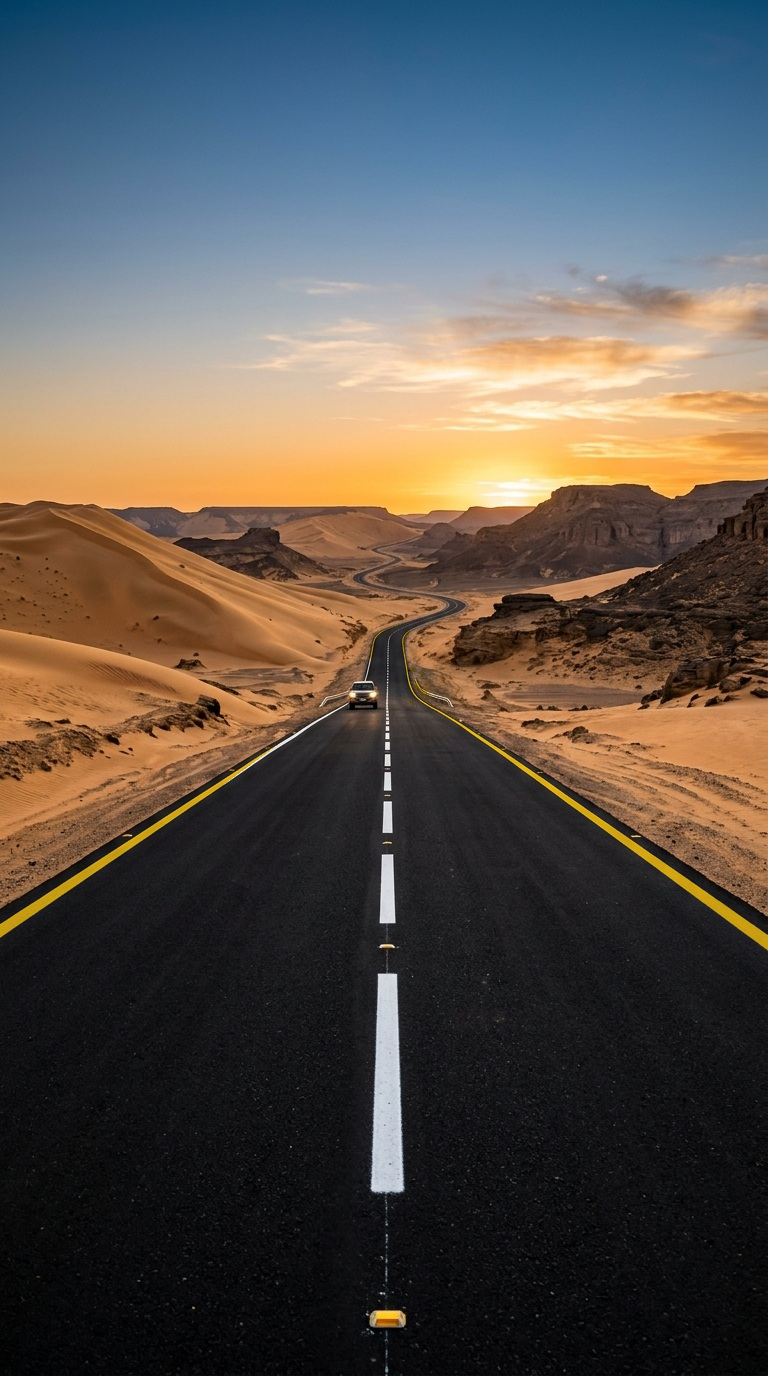
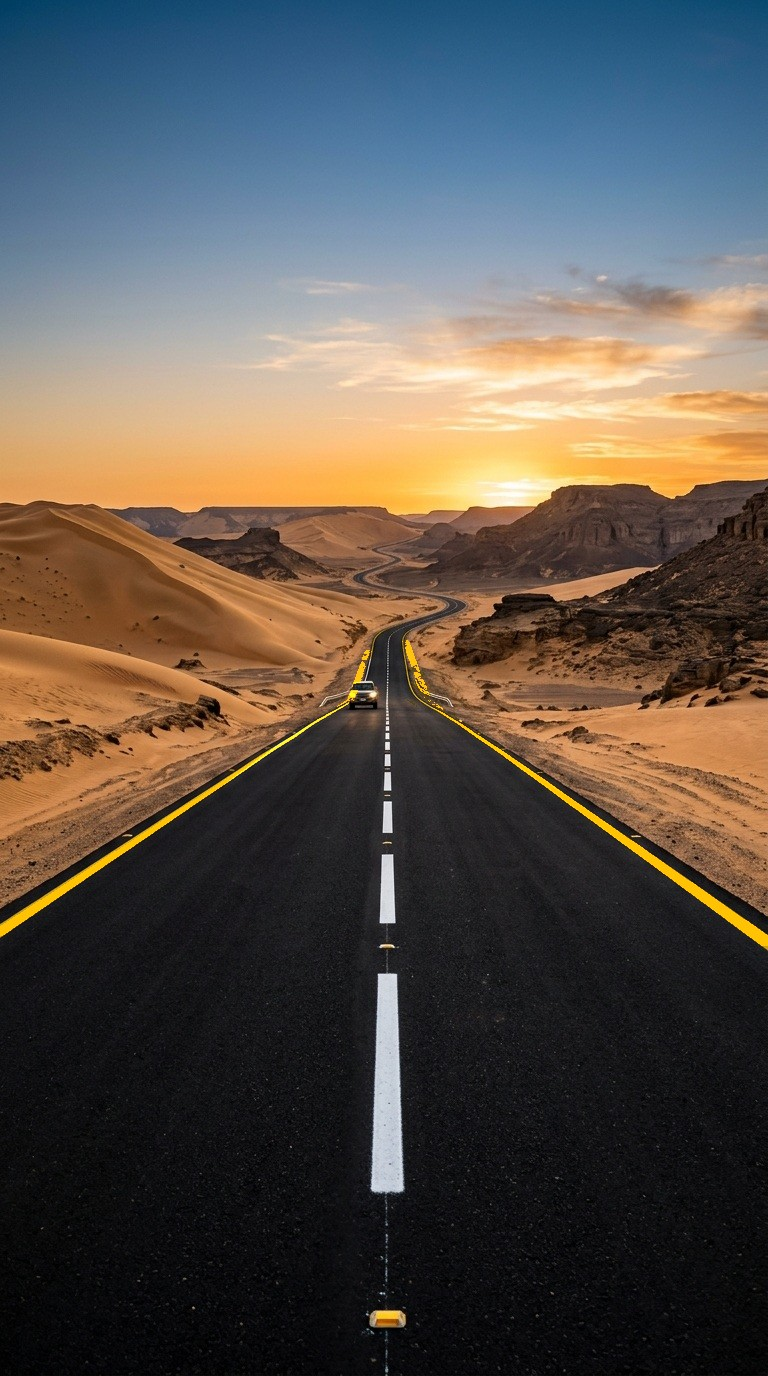
fix(ui): complete yellow edge lines on mobile & desktop road backgrounds, remove ticker star, and restore red dot next to updates

diff --git a/src/components/MarqueeTicker.jsx b/src/components/MarqueeTicker.jsx
@@ -150,8 +150,9 @@ export default function MarqueeTicker({
         
         {/* ── Fixed Live Broadcast Badge (Refined Frosted Glass Pill) ── */}
         <div className="flex-shrink-0 flex items-center gap-1.5 sm:gap-2 px-2.5 sm:px-3.5 py-1 sm:py-1.5 rounded-full bg-gradient-to-r from-amber-500 via-amber-400 to-orange-500 text-slate-950 font-black text-[10px] sm:text-xs shadow-md shadow-amber-500/25 z-20 border border-amber-300/40 transition-transform duration-200 hover:scale-[1.02]">
-          <span className="relative flex h-2 w-2 flex-shrink-0 items-center justify-center">
-            <span className="relative inline-flex rounded-full h-2 w-2 bg-slate-950/80 shadow-sm"></span>
+          <span className="relative flex h-2 w-2 flex-shrink-0">
+            <span className="animate-ping absolute inline-flex h-full w-full rounded-full bg-red-400 opacity-75"></span>
+            <span className="relative inline-flex rounded-full h-2 w-2 bg-red-600 shadow-sm"></span>
           </span>
           <span className="tracking-wide whitespace-nowrap">
             <span className="inline sm:hidden">{lang === 'ar' ? 'المستجدات' : 'Updates'}</span>
@@ -165,7 +166,7 @@ export default function MarqueeTicker({
           <div className="flex w-full overflow-hidden select-none group-hover:[&>div]:[animation-play-state:paused]" dir="ltr">
             {/* Primary Track 1 */}
             <div 
-              className="flex shrink-0 animate-marquee-reverse md:animate-marquee items-center gap-8 sm:gap-10 pe-8 sm:pe-10 py-0.5 will-change-transform"
+              className="flex shrink-0 animate-marquee-reverse md:animate-marquee items-center gap-10 sm:gap-14 pe-10 sm:pe-14 py-0.5 will-change-transform"
               style={{ animationDuration: animDuration }}
             >
               {baseList.map((item, idx) => (
@@ -187,9 +188,6 @@ export default function MarqueeTicker({
                   }`}>
                     {item.text}
                   </span>
-
-                  {/* Elegant Amber Separator (Replaces Red Dot) */}
-                  <span className="text-amber-500/50 mx-2.5 sm:mx-3.5 select-none font-bold text-xs shrink-0">✦</span>
                 </div>
               ))}
             </div>
@@ -197,7 +195,7 @@ export default function MarqueeTicker({
             {/* Seamless Sibling Track 2 (Cloned for 100% infinite loop with zero delay) */}
             <div 
               aria-hidden="true"
-              className="flex shrink-0 animate-marquee-reverse md:animate-marquee items-center gap-8 sm:gap-10 pe-8 sm:pe-10 py-0.5 will-change-transform"
+              className="flex shrink-0 animate-marquee-reverse md:animate-marquee items-center gap-10 sm:gap-14 pe-10 sm:pe-14 py-0.5 will-change-transform"
               style={{ animationDuration: animDuration }}
             >
               {baseList.map((item, idx) => (
@@ -219,9 +217,6 @@ export default function MarqueeTicker({
                   }`}>
                     {item.text}
                   </span>
-
-                  {/* Elegant Amber Separator (Replaces Red Dot) */}
-                  <span className="text-amber-500/50 mx-2.5 sm:mx-3.5 select-none font-bold text-xs shrink-0">✦</span>
                 </div>
               ))}
             </div>

diff --git a/src/utils/assets.js b/src/utils/assets.js
@@ -20,6 +20,7 @@ export const resolveAsset = (path) => {
     return path;
   }
   const clean = path.replace(/^(\.\/|\/)/, '');
+  const versionParam = (clean.includes('road-hero-mobile') || clean.includes('hero-desert-road')) ? '?v=20261101_yellow_road' : '';
 
   if (typeof window !== 'undefined' && window.location) {
     const pathname = window.location.pathname || '';
@@ -30,11 +31,11 @@ export const resolveAsset = (path) => {
       : (pathname.endsWith('/') ? pathname : pathname + '/');
 
     if (baseDir && baseDir !== '/') {
-      return `${baseDir}${clean}`;
+      return `${baseDir}${clean}${versionParam}`;
     }
   }
 
-  return `./${clean}`;
+  return `./${clean}${versionParam}`;
 };
 
 export const getImageAsset = (key) => {
